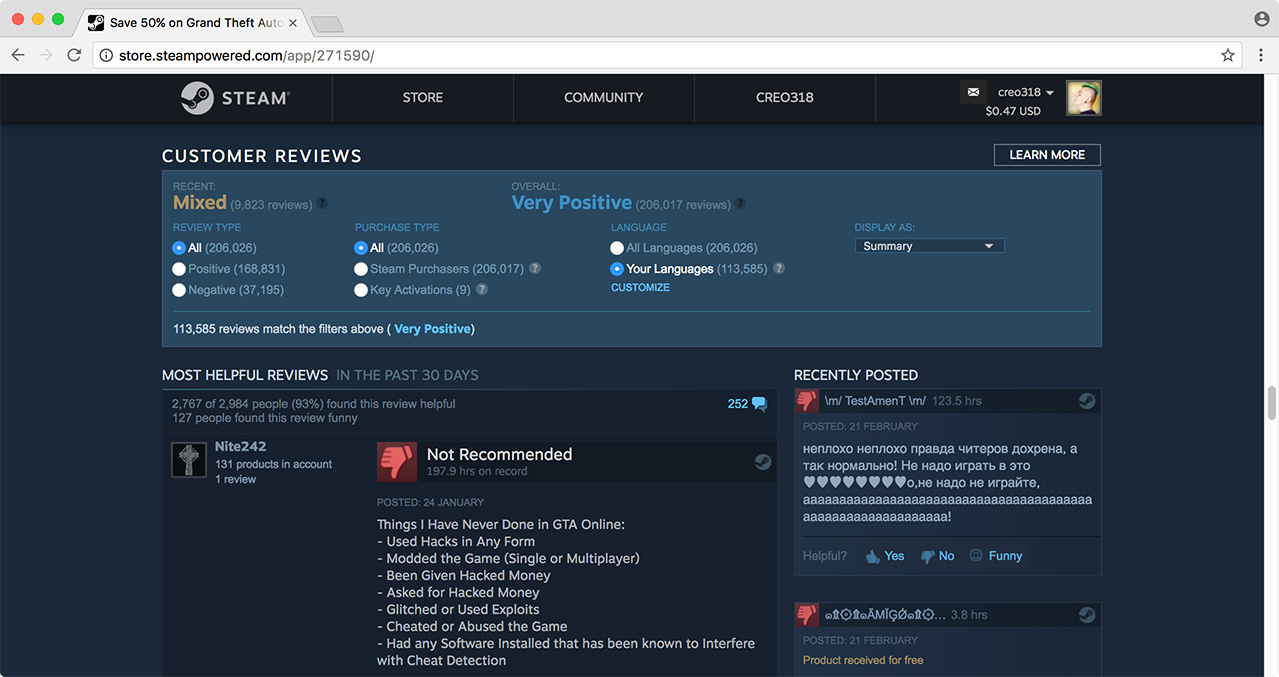
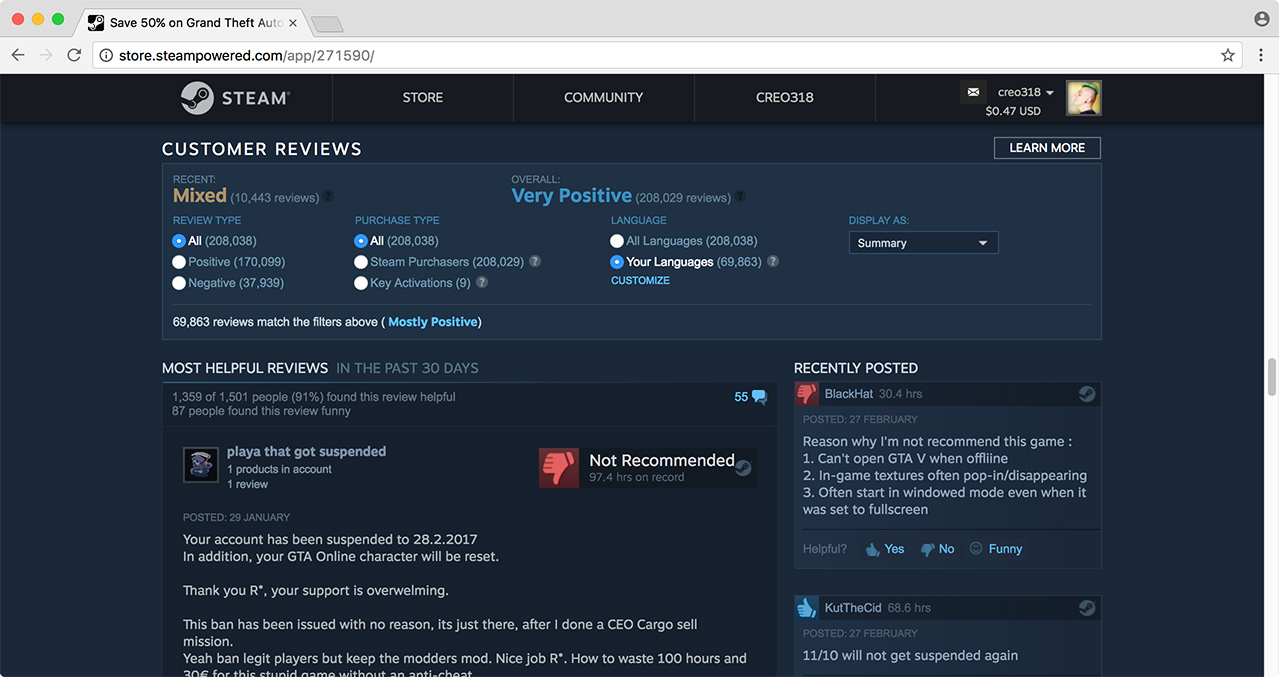
Warning page, banned user info, game in store review, select/tab fix

diff --git a/styles.css b/styles.css
@@ -34,9 +34,11 @@ html body div#global_header {
 	box-sizing: border-box;
 	}
 	/* redesign main menu */
-	html body div#global_header .content {
+	html body div#global_header .content,
+	html body:not(.es_homepage_sidebar_hidden) div#global_header .content {
 		height: 48px; /* menu height */
 		background: none;
+		right: auto !important;
 		}
 		html body div#global_header div.logo {
 			padding: 0;
@@ -250,6 +252,21 @@ html body .rightcol.game_meta_data .block_content_inner {
 html body .review_box {
 	border: 1px solid rgba(255, 255, 255, 0.05);
 	}
+	html body .review_box .leftcol {
+		float: none;
+		width: auto;
+		padding: 20px;
+		}
+	html body .review_box .rightcol {
+		float: none;
+		width: auto;
+		padding: 0 20px;
+		margin: 0;
+		}
+	html body .review_box a.vote_header {
+		float: right;
+		margin-top: -62px;
+		}
 
 html body .game_description_column .block_header {
 	border: none;
@@ -288,8 +305,8 @@ html body .user_reviews_header {
 	}
 html body .user_reviews_summary_bar {
 	padding: 10px 10px 0;
-	background: #2a475e;
-	border: 1px solid rgba(255,255,255,0.1);
+	background: rgba(42, 71, 94, 0.3);
+	border: 1px solid rgba(255, 255, 255, 0.1);
 	border-bottom: none;
 	}
 html body .user_reviews_summary_bar.new {
@@ -299,9 +316,13 @@ html body .user_reviews_summary_bar .game_review_summary {
 	text-shadow: none;
 	}
 html body .user_reviews_filter_options {
-	border: 1px solid rgba(255,255,255,0.1);
+	background: rgba(42, 71, 94, 0.3);
+	border: 1px solid rgba(255, 255, 255, 0.1);
 	border-top: none;
 	}
+	html body .user_reviews_filter_score {
+		border-top-color: rgba(255, 255, 255, 0.1);
+		}
 
 html body .app_tag:hover,
 html body .app_tag.add_your_own:hover,
@@ -348,7 +369,7 @@ html body #wishlist_items .price {
 	color: #eee;
 	}
 html body input.wishlist_rank {
-	background: rgba(0,0,0,0.6);
+	background: rgba(0, 0, 0, 0.6);
 	}
 
 
@@ -597,9 +618,36 @@ html body #friendactivity_right_column .box {
 	border: 1px solid rgba(255, 255, 255, 0.1);
 	}
 
+html body .manage_actions_ctn {
+	background: rgba(255, 255, 255, 0.05);
+	}
+
 html body .blotter_appselect {
 	background: #7095ca;
 	}
+
+html body .private_profile {
+	}
+	html body .private_profile .profile_content {
+		display: none;
+		}
+	html body .private_profile .profile_private_info {
+		color: #fff;
+		background: #a94847;
+		padding: 10px;
+		}
+
+html body .profile_ban_status {
+	color: #fff;
+	background: #a94847;
+	padding: 10px;
+	}
+	html body .profile_ban .profile_ban_info {
+		color: inherit;
+		}
+		html body .profile_ban .profile_ban_info a {
+			font-weight: bold;
+		}
 
 
 /*
@@ -858,7 +906,7 @@ html body .sharedfiles_usercontrols_label {
 	vertical-align: middle;
 	}
 html body blockquote.bb_blockquote {
-	background: rgba(0,0,0,0.15);
+	background: rgba(0, 0, 0, 0.15);
 	}
 html body .commentthread_comment {
 	margin-top: 19px;
@@ -943,9 +991,22 @@ html body .card_drop_info_progress_bar.new_progress {
 
 
 /*
- *  Sort options
+ *  Warning page
  *  ---------------------------------------------
  */
+
+html body .warningSign {
+	background: #820200;
+	}
+html body .friendlyInterstital .warningSign {
+	background: #E3BA14;
+	}
+
+
+ /*
+  *  Sort options
+  *  ---------------------------------------------
+  */
 
 html body .sort_options a,
 html body .sort_options .selected_sort,
@@ -1093,8 +1154,9 @@ html body #store_nav_area .store_nav_bg {
 		text-shadow: none;
 		}
 	html body #store_nav_area .store_nav_bg .popup_block_new .popup_body {
+		padding: 0;
 		background: #60aed9;
-		box-shadow: 0 8px 8px rgba(0,0,0,0.5);
+		box-shadow: 0 8px 8px rgba(0, 0, 0, 0.5);
 		}
 		html body #store_nav_area .store_nav_bg .popup_menu_subheader {
 			color: rgba(255, 255, 255, 0.75);
@@ -1249,7 +1311,7 @@ html body .btnv6_blue_blue_innerfade:not(.btn_disabled):not(:disabled):not(.btn_
 	background: rgba(102, 192, 244, 1) !important;
 	}
 html body .btnv6_blue_hoverfade {
-	background: rgba( 103, 193, 245, 0.2 ) !important;
+	background: rgba(103, 193, 245, 0.2) !important;
 	}
 html body .btnv6_blue_hoverfade:not(.btn_disabled):not(:disabled):not(.btn_active):not(.active):hover {
 	background: #417a9b !important;
@@ -1278,6 +1340,9 @@ html body .games_list_tab.active {
 html body .apphub_sectionTab:hover {
 	background: #67c1f5;
 	}
+html body .apphub_sectionTabsHR {
+	height: 2px;
+	}
 html body .tab_item {
 	border: 1px solid rgba(255, 255, 255, 0.075);
 	}
@@ -1294,6 +1359,16 @@ html body .grouppage_header {
 	}
 html body .responsive_tab_baseline {
 	height: 2px;
+	}
+
+html body #subtabs {
+	height: 40px;
+	background-repeat: repeat-x;
+	background-position: 0 -2px;
+	}
+
+html body .discussions_header {
+	border-bottom-width: 2px;
 	}
 
 
@@ -1345,11 +1420,12 @@ html body textarea:active {
 	}
 html body select,
 html body select.gray_bevel {
+	line-height: normal;
 	color: #C6D4DF;
-	background: rgba( 0, 0, 0, 0.2 ) no-repeat;
+	background: rgba(0, 0, 0, 0.2) no-repeat;
[1 lines of base64/hex data omitted]
 	background-position: calc(100% - 6px) 50%;
-	padding: 0 30px 0 8px;
+	padding: 4px 30px 4px 8px;
 	-webkit-box-sizing: border-box;
 	   -moz-box-sizing: border-box;
 	        box-sizing: border-box;
